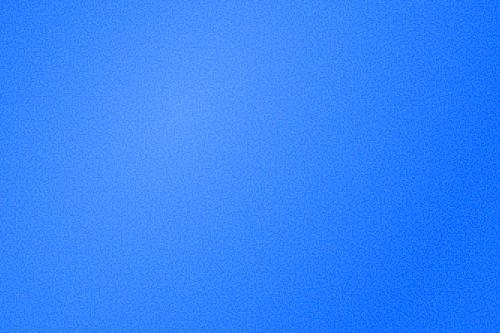
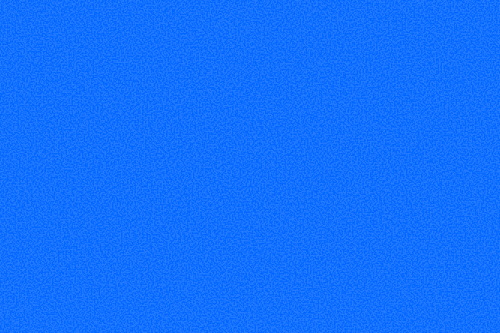
Обновление

diff --git a/styles.css b/styles.css
@@ -967,25 +967,30 @@ a.case:not(.case--detail):hover .case__cover { transform: scale(1.015); }
   gap: 4px;
 }
 .achievements__item {
-  padding: 48px 32px 48px 32px;
+  position: relative;
+  padding: 48px 32px;
   border-radius: 32px;
-  background: #0065FF;
+  background: #F2F3F4 url(assets/case-1/background.png) center/cover no-repeat;
+  overflow: hidden;
 }
 .achievements__value {
   margin: 0;
   font-family: var(--font-display);
   font-weight: 500;
   font-size: 36px;
-  line-height: 42px;
+  line-height: 45px;
   color: var(--white);
+  display: -webkit-box;
+  -webkit-line-clamp: 2;
+  -webkit-box-orient: vertical;
+  overflow: hidden;
   height: 2.5em;
 }
 .achievements__desc {
-  margin-top: 16px;
+  margin-top: 24px;
   font-size: 18px;
   line-height: 24px;
-  color: var(--white);
-  opacity: 0.8;
+  color: rgba(255, 255, 255, 0.7);
 }
 
 @media (max-width: 720px) {

diff --git a/case-new-school.html b/case-new-school.html
@@ -190,8 +190,8 @@
 
     <div class="achievements">
       <div class="achievements__item">
-        <p class="achievements__value">Запущен с нуля</p>
-        <p class="achievements__desc">успешно запустили продукт за 2 месяца</p>
+        <p class="achievements__value">2 месяца</p>
+        <p class="achievements__desc">успешно запустили масштабное обновление</p>
       </div>
       <div class="achievements__item">
         <p class="achievements__value">+13%</p>
